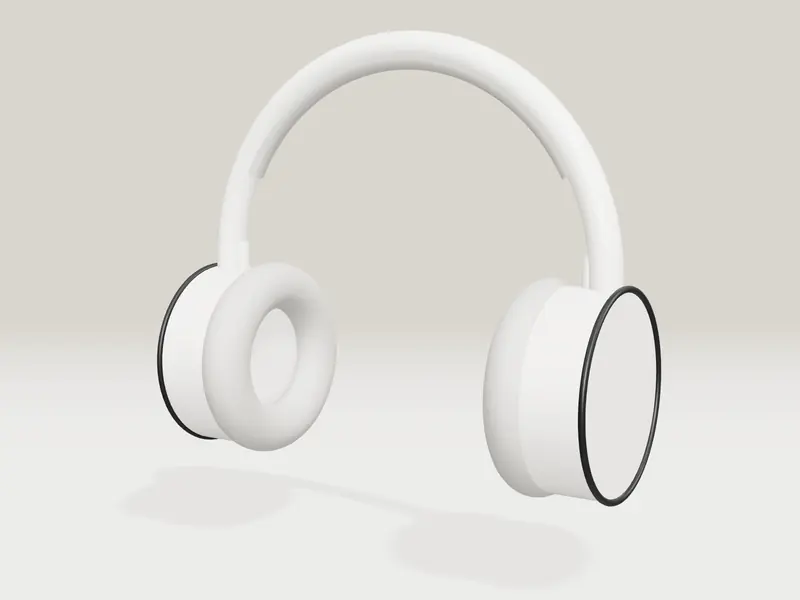
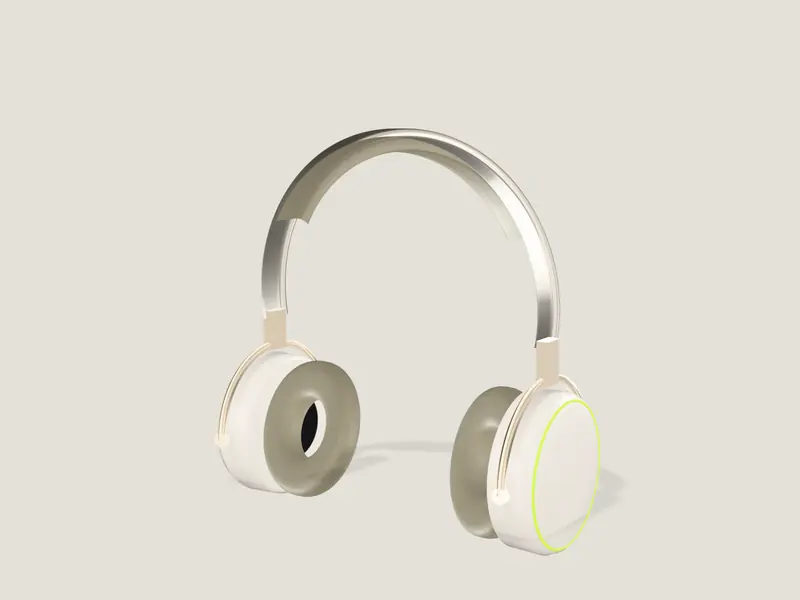
Oktave: install rendered sequence + stills; contain-fit stage so spec notes never cover the exploded view

diff --git a/components/Sequence.tsx b/components/Sequence.tsx
@@ -5,14 +5,14 @@ import { gsap } from "gsap";
 /** Scroll-scrubbed, pre-rendered image sequence on a 2D canvas.
  *  Frames are rendered offline from the H1 model (see CREDITS.md), so the hero costs one drawImage per changed frame.
  *  Loading is progressive: chapter keyframes first, then every 4th frame, then the rest; the nearest loaded frame is drawn. */
-export default function Sequence({ frame, count, dir, mdir, className = "" }: { frame: MutableRefObject<number>; count: number; dir: string; mdir: string; className?: string }) {
+export default function Sequence({ frame, count, dir, mdir, className = "", fit = 1, lift = 0 }: { frame: MutableRefObject<number>; count: number; dir: string; mdir: string; className?: string; fit?: number; lift?: number }) {
   const cv = useRef<HTMLCanvasElement>(null);
   useEffect(() => {
     const c = cv.current!; const ctx = c.getContext("2d", { alpha: false })!;
     const mobile = window.matchMedia("(max-width: 767px)").matches;
     const base = mobile ? mdir : dir;
     const imgs: (HTMLImageElement | null)[] = Array(count).fill(null);
-    let alive = true, drawn = -1, w = 0, h = 0;
+    let alive = true, drawn = -1, w = 0, h = 0; const bg = "#e8e8e7";
     const order: number[] = []; const seen = new Set<number>(); const push = (i: number) => { if (i < count && !seen.has(i)) { seen.add(i); order.push(i); } };
     [0, Math.round((count - 1) / 3), Math.round((count - 1) * 2 / 3), count - 1].forEach(push); for (let i = 0; i < count; i += 4) push(i); for (let i = 0; i < count; i += 2) push(i); for (let i = 0; i < count; i++) push(i);
     let q = 0; const load = () => { if (!alive || q >= order.length) return; const i = order[q++]; const im = new Image(); im.decoding = "async"; im.src = `${base}/${i}.webp`;
@@ -24,12 +24,14 @@ export default function Sequence({ frame, count, dir, mdir, className = "" }: { 
     const tick = () => {
       const f = Math.max(0, Math.min(count - 1, Math.round(frame.current)));
       if (f === drawn) return; const im = nearest(f); if (!im) return;
-      // object-fit: cover
-      const s = Math.max(c.width / im.naturalWidth, c.height / im.naturalHeight); const iw = im.naturalWidth * s, ih = im.naturalHeight * s;
-      ctx.drawImage(im, (c.width - iw) / 2, (c.height - ih) / 2, iw, ih); if (imgs[f]) drawn = f; if (c.style.opacity !== "1") c.style.opacity = "1";
+      // fit=1: object-fit cover. fit<1: contain scaled by fit, lifted by lift*height, edges filled with the frame's own backdrop colour.
+      const cover = fit >= 1; const s = cover ? Math.max(c.width / im.naturalWidth, c.height / im.naturalHeight) : Math.min(c.width / im.naturalWidth, c.height / im.naturalHeight) * fit;
+      const iw = im.naturalWidth * s, ih = im.naturalHeight * s;
+      if (!cover) { ctx.fillStyle = bg; ctx.fillRect(0, 0, c.width, c.height); }
+      ctx.drawImage(im, (c.width - iw) / 2, (c.height - ih) / 2 - lift * c.height, iw, ih); if (imgs[f]) drawn = f; if (c.style.opacity !== "1") c.style.opacity = "1";
     };
     gsap.ticker.add(tick);
     return () => { alive = false; gsap.ticker.remove(tick); ro.disconnect(); };
-  }, [count, dir, mdir, frame]);
+  }, [count, dir, mdir, frame, fit, lift]);
   return <canvas ref={cv} className={`absolute inset-0 h-full w-full opacity-0 ${className}`} aria-hidden="true" />;
 }

diff --git a/components/Reveal.tsx b/components/Reveal.tsx
@@ -10,6 +10,8 @@ export default function Reveal() {
   const root = useRef<HTMLElement>(null);
   const frame = useRef(0);
   const [ch, setCh] = useState(0);
+  const [fit, setFit] = useState(0.8);
+  useEffect(() => { const q = window.matchMedia("(max-width: 767px)"); const f = () => setFit(q.matches ? 0.86 : 0.8); f(); q.addEventListener("change", f); return () => q.removeEventListener("change", f); }, []);
   useEffect(() => {
     const bar = root.current!.querySelector<HTMLElement>(".r-bar");
     const st = ScrollTrigger.create({ trigger: root.current, start: "top top", end: "bottom bottom", onUpdate: (s) => {
@@ -25,10 +27,10 @@ export default function Reveal() {
         <div className="absolute inset-0 bg-[radial-gradient(ellipse_at_center,#f9f9f7_0%,#efefec_60%)]" />
         <Image src="/img/okt-mark.webp" alt="The Oktave mark: one continuous band" fill priority sizes="100vw" className="object-cover max-md:hidden" />
         <Image src="/img/okt-mark-m.webp" alt="" fill priority sizes="100vw" className="object-cover md:hidden" />
-        <Sequence frame={frame} count={61} dir="/seq/d" mdir="/seq/m" />
+        <Sequence frame={frame} count={61} dir="/seq/d" mdir="/seq/m" fit={fit} lift={0.08} />
         <div className="wrap pointer-events-none relative flex h-full flex-col justify-between pb-8 pt-24">
           <div className="flex justify-between"><span className="mono text-mute">Prelaunch · Drop 01</span><span className="mono hidden text-mute md:block">Scroll</span></div>
-          <div className="relative min-h-[200px]">
+          <div className="relative mb-8 mt-auto min-h-[200px]">
             <div className={`absolute inset-x-0 bottom-0 ${vis(0)}`}>
               <h1 className="display text-center text-[clamp(72px,17vw,280px)]"><span className="kit-mask"><span className="kit-line">Oktave</span></span></h1>
             </div>
